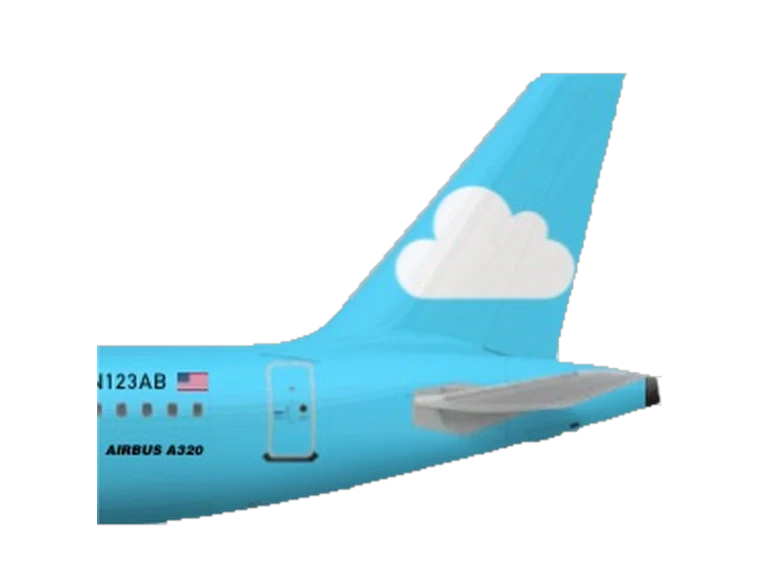
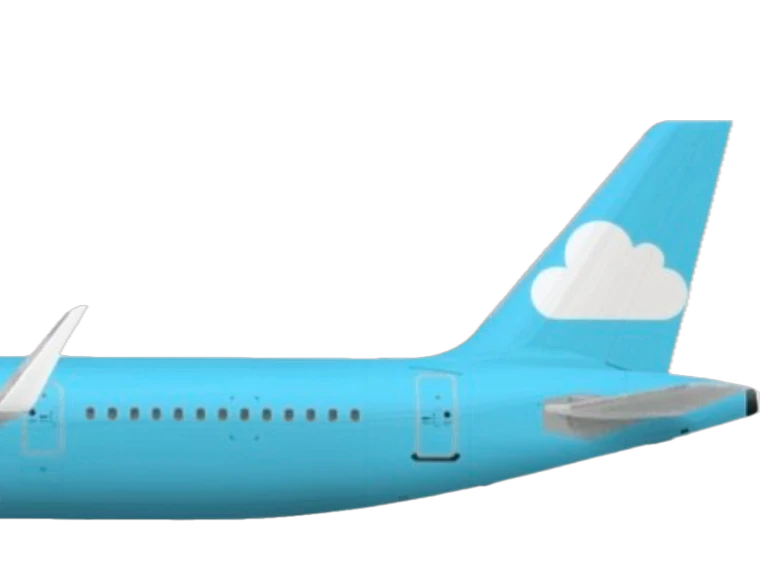
Sharper livery and more detail for two US members
The thirtieth member sent a larger livery, already a transparent
cutout, which replaces the small upscaled one; it is trimmed just before
the winglet like the other full-length renders. New York JFK becomes its
primary hub, its blurb and profile say so, the network paragraph notes
regional flying alongside international routes, and the A320, A340,
A350, 737 and 787 join its fleet (no variants or counts were given).

The Connect member gains five key routes across its four hubs and
twenty-five 787-9s to its fleet (now 133 aircraft per its submission),
and its network paragraph describes where each route goes. Its livery
is still the stand-in.

Changed region(s): [[0.0, 0.1193, 1.0, 0.9246]]

diff --git a/airline-clear-sky.html b/airline-clear-sky.html
@@ -5,10 +5,10 @@
 <meta charset="utf-8">
 <meta name="viewport" content="width=device-width, initial-scale=1, viewport-fit=cover">
 <title>Clear Sky · Mollweide Alliance</title>
-<meta name="description" content="A premium-first US carrier with major hubs at Seattle, Miami, New York JFK and Los Angeles.">
+<meta name="description" content="A premium-first US carrier based at New York JFK, with further major hubs at Seattle, Miami and Los Angeles.">
 <meta name="theme-color" content="#13398C">
 <meta property="og:title" content="Clear Sky · Mollweide Alliance">
-<meta property="og:description" content="A premium-first US carrier with major hubs at Seattle, Miami, New York JFK and Los Angeles.">
+<meta property="og:description" content="A premium-first US carrier based at New York JFK, with further major hubs at Seattle, Miami and Los Angeles.">
 <meta property="og:image" content="assets/img/members/clear-sky.webp">
 <link rel="icon" href="assets/img/mark-blue.png">
 <link rel="apple-touch-icon" href="assets/img/mark-blue.png">
@@ -54,7 +54,7 @@
     <h1 class="display"><b>Clear Sky</b></h1>
     <p class="al-reg">Clear Sky Airlines</p>
     <div class="brandrule al-rule"></div>
-    <p class="lede mt-3">A premium-first US carrier with major hubs at Seattle, Miami, New York JFK and Los Angeles.</p>
+    <p class="lede mt-3">A premium-first US carrier based at New York JFK, with further major hubs at Seattle, Miami and Los Angeles.</p>
   </div>
 </section>
 
@@ -63,7 +63,7 @@
     <div>
       <p class="eyebrow">Profile</p>
       <h2 class="display">The airline, <b>in brief.</b></h2>
-      <p class="body-copy al-p">Clear Sky Airlines is a United States carrier built around premium service, with major hubs at Seattle, Miami, New York JFK and Los Angeles, and minor hubs at New York LaGuardia and White Plains.</p>
+      <p class="body-copy al-p">Clear Sky Airlines is a United States carrier built around premium service. Its primary hub is New York JFK, with further major hubs at Seattle, Miami and Los Angeles, and minor hubs at New York LaGuardia and White Plains.</p>
       <p class="body-copy al-p">Comfort comes first on board. The airline flies more than 100 premium aircraft on over 120 routes, from the all-premium A318 to its long-haul 747-8 and A380 flagships.</p>
     </div>
     <aside class="al-card">
@@ -71,7 +71,7 @@
       <dl class="al-facts">
         <div><dt>Airline code</dt><dd><span class="code">CS</span></dd></div>
         <div><dt>Country</dt><dd>United States</dd></div>
-        <div><dt>Primary hub</dt><dd>Seattle Seattle–Tacoma <span class="code">SEA</span></dd></div>
+        <div><dt>Primary hub</dt><dd>New York John F. Kennedy <span class="code">JFK</span></dd></div>
         <div><dt>Membership</dt><dd>Mollweide Alliance, since 2026</dd></div>
       </dl>
     </aside>
@@ -83,12 +83,12 @@
     <div class="sec-head"><div><p class="eyebrow">Network</p><h2 class="display">Where it <b>flies.</b></h2></div></div>
     <div class="al-solo">
       <div>
-        <p class="body-copy al-p">Its hubs reach every corner of the United States, from Seattle in the north-west and Los Angeles on the Pacific coast to Miami and New York in the east, connecting the country with the world.</p>
+        <p class="body-copy al-p">Its hubs reach every corner of the United States, from Seattle in the north-west and Los Angeles on the Pacific coast to Miami and New York in the east. The network combines international routes with regional flying across America.</p>
         <h3 class="al-sub">Hubs</h3>
         <ul class="al-hubs">
-          <li class="al-hub"><span class="al-hub__code code">SEA</span><span class="al-hub__city">Seattle <em>Primary</em></span><span class="al-hub__apt">Seattle–Tacoma, United States</span></li>
+          <li class="al-hub"><span class="al-hub__code code">JFK</span><span class="al-hub__city">New York <em>Primary</em></span><span class="al-hub__apt">John F. Kennedy, United States</span></li>
+          <li class="al-hub"><span class="al-hub__code code">SEA</span><span class="al-hub__city">Seattle</span><span class="al-hub__apt">Seattle–Tacoma, United States</span></li>
           <li class="al-hub"><span class="al-hub__code code">MIA</span><span class="al-hub__city">Miami</span><span class="al-hub__apt">Miami Intl, United States</span></li>
-          <li class="al-hub"><span class="al-hub__code code">JFK</span><span class="al-hub__city">New York</span><span class="al-hub__apt">John F. Kennedy, United States</span></li>
           <li class="al-hub"><span class="al-hub__code code">LAX</span><span class="al-hub__city">Los Angeles</span><span class="al-hub__apt">Los Angeles Intl, United States</span></li>
         </ul>
         <h3 class="al-sub">Focus cities</h3>
@@ -111,14 +111,19 @@
         <ul class="al-fleet__list">
           <li><span class="al-fleet__t">A220</span></li>
           <li><span class="al-fleet__t">A318</span><span class="al-fleet__n">LUX configuration, the most premium experience on board</span></li>
+          <li><span class="al-fleet__t">A320</span></li>
+          <li><span class="al-fleet__t">A340</span></li>
+          <li><span class="al-fleet__t">A350</span></li>
           <li><span class="al-fleet__t">A380-800</span><span class="al-fleet__n">Long-haul flagship</span></li>
         </ul>
       </div>
       <div class="al-fleet__grp">
         <p class="al-fleet__mk">Boeing</p>
         <ul class="al-fleet__list">
+          <li><span class="al-fleet__t">737</span></li>
           <li><span class="al-fleet__t">747-8</span><span class="al-fleet__n">Long-haul flagship</span></li>
           <li><span class="al-fleet__t">757</span><span class="al-fleet__n">ECO configuration, designed for savings on every trip</span></li>
+          <li><span class="al-fleet__t">787</span></li>
         </ul>
       </div>
     </div>
@@ -184,7 +189,7 @@
     </div>
   </div>
 </footer>
-<script src="assets/js/data.js?v=27c7a4d9"></script>
+<script src="assets/js/data.js?v=eb2d39ec"></script>
 <script src="assets/js/site.js?v=756ac757"></script>
 <script>
   document.getElementById('ftMembers').innerHTML =

diff --git a/airline-quintair.html b/airline-quintair.html
@@ -81,9 +81,9 @@
 <section class="section on-wash">
   <div class="wrap">
     <div class="sec-head"><div><p class="eyebrow">Network</p><h2 class="display">Where it <b>flies.</b></h2></div></div>
-    <div class="al-solo">
+    <div class="two-col">
       <div>
-        <p class="body-copy al-p">QuintAir flies global routes from its four hubs, with a long-haul fleet led by the Airbus A350-1000, A380-800 and Boeing 777-300ER.</p>
+        <p class="body-copy al-p">QuintAir flies long-haul from all four hubs: across the Pacific to Tokyo, Seoul and Sydney, across the Atlantic to London, and south to São Paulo. Its fleet is led by the Boeing 777-300ER, 787-9 and Airbus A350-1000.</p>
         <h3 class="al-sub">Hubs</h3>
         <ul class="al-hubs">
           <li class="al-hub"><span class="al-hub__code code">LAX</span><span class="al-hub__city">Los Angeles <em>Primary</em></span><span class="al-hub__apt">Los Angeles Intl, United States</span></li>
@@ -91,6 +91,34 @@
           <li class="al-hub"><span class="al-hub__code code">JFK</span><span class="al-hub__city">New York</span><span class="al-hub__apt">John F. Kennedy, United States</span></li>
           <li class="al-hub"><span class="al-hub__code code">DFW</span><span class="al-hub__city">Dallas</span><span class="al-hub__apt">Dallas/Fort Worth, United States</span></li>
         </ul>
+      </div>
+      <div>
+        <h3 class="al-sub al-sub--top">Key routes</h3>
+        <div class="al-rgrp">
+          <p class="al-rgrp__from">From Los Angeles <span class="code">LAX</span></p>
+          <ul class="al-routes">
+            <li><span class="code">NRT</span><span class="al-routes__city">Tokyo</span><span class="al-routes__ctry">Japan</span></li>
+            <li><span class="code">SYD</span><span class="al-routes__city">Sydney</span><span class="al-routes__ctry">Australia</span></li>
+          </ul>
+        </div>
+        <div class="al-rgrp">
+          <p class="al-rgrp__from">From Miami <span class="code">MIA</span></p>
+          <ul class="al-routes">
+            <li><span class="code">GRU</span><span class="al-routes__city">São Paulo</span><span class="al-routes__ctry">Brazil</span></li>
+          </ul>
+        </div>
+        <div class="al-rgrp">
+          <p class="al-rgrp__from">From New York <span class="code">JFK</span></p>
+          <ul class="al-routes">
+            <li><span class="code">LHR</span><span class="al-routes__city">London</span><span class="al-routes__ctry">United Kingdom</span></li>
+          </ul>
+        </div>
+        <div class="al-rgrp">
+          <p class="al-rgrp__from">From Dallas <span class="code">DFW</span></p>
+          <ul class="al-routes">
+            <li><span class="code">ICN</span><span class="al-routes__city">Seoul</span><span class="al-routes__ctry">South Korea</span></li>
+          </ul>
+        </div>
       </div>
     </div>
   </div>
@@ -113,7 +141,8 @@
         <p class="al-fleet__mk">Boeing</p>
         <ul class="al-fleet__list">
           <li><span class="al-fleet__t">777-300</span><span class="al-fleet__n">4 aircraft</span></li>
-          <li><span class="al-fleet__t">777-300ER</span><span class="al-fleet__n">24 aircraft</span></li>
+          <li><span class="al-fleet__t">777-300ER</span><span class="al-fleet__n">39 aircraft</span></li>
+          <li><span class="al-fleet__t">787-9 Dreamliner</span><span class="al-fleet__n">35 aircraft</span></li>
         </ul>
       </div>
     </div>
@@ -179,7 +208,7 @@
     </div>
   </div>
 </footer>
-<script src="assets/js/data.js?v=27c7a4d9"></script>
+<script src="assets/js/data.js?v=eb2d39ec"></script>
 <script src="assets/js/site.js?v=756ac757"></script>
 <script>
   document.getElementById('ftMembers').innerHTML =

diff --git a/assets/js/data.js b/assets/js/data.js
@@ -501,14 +501,20 @@ const MEMBERS = [
         'A dedicated domestic fleet is planned, to expand its regional flying.'
       ],
       network:[
-        'QuintAir flies global routes from its four hubs, with a long-haul ' +
-        'fleet led by the Airbus A350-1000, A380-800 and Boeing 777-300ER.'
+        'QuintAir flies long-haul from all four hubs: across the Pacific to ' +
+        'Tokyo, Seoul and Sydney, across the Atlantic to London, and south to ' +
+        'São Paulo. Its fleet is led by the Boeing 777-300ER, 787-9 and Airbus ' +
+        'A350-1000.'
+      ],
+      routes:[
+        ['LAX','NRT'],['LAX','SYD'],['MIA','GRU'],['JFK','LHR'],['DFW','ICN']
       ],
       fleet:{
         current:[
           ['Airbus','A321neo','15 aircraft'],['Airbus','A350-1000','31 aircraft'],
           ['Airbus','A380-800','9 aircraft'],
-          ['Boeing','777-300','4 aircraft'],['Boeing','777-300ER','24 aircraft']
+          ['Boeing','777-300','4 aircraft'],['Boeing','777-300ER','39 aircraft'],
+          ['Boeing','787-9 Dreamliner','35 aircraft']
         ],
         incoming:[]
       }
@@ -517,14 +523,15 @@ const MEMBERS = [
   {
     name:'Clear Sky Airlines', short:'Clear Sky', code:'CS', country:'United States',
     color:'#52D6FC', tail:'assets/img/members/clear-sky.webp',
-    hubs:['SEA','MIA','JFK','LAX'], focus:['LGA','HPN'], joined:2026,
-    blurb:'A premium-first US carrier with major hubs at Seattle, Miami, New ' +
-          'York JFK and Los Angeles.',
+    hubs:['JFK','SEA','MIA','LAX'], focus:['LGA','HPN'], joined:2026,
+    blurb:'A premium-first US carrier based at New York JFK, with further ' +
+          'major hubs at Seattle, Miami and Los Angeles.',
     profile:{
       about:[
         'Clear Sky Airlines is a United States carrier built around premium ' +
-        'service, with major hubs at Seattle, Miami, New York JFK and Los ' +
-        'Angeles, and minor hubs at New York LaGuardia and White Plains.',
+        'service. Its primary hub is New York JFK, with further major hubs at ' +
+        'Seattle, Miami and Los Angeles, and minor hubs at New York LaGuardia ' +
+        'and White Plains.',
         'Comfort comes first on board. The airline flies more than 100 premium ' +
         'aircraft on over 120 routes, from the all-premium A318 to its ' +
         'long-haul 747-8 and A380 flagships.'
@@ -532,15 +539,19 @@ const MEMBERS = [
       network:[
         'Its hubs reach every corner of the United States, from Seattle in the ' +
         'north-west and Los Angeles on the Pacific coast to Miami and New York ' +
-        'in the east, connecting the country with the world.'
+        'in the east. The network combines international routes with regional ' +
+        'flying across America.'
       ],
       fleet:{
         current:[
           ['Airbus','A220'],
           ['Airbus','A318','LUX configuration, the most premium experience on board'],
+          ['Airbus','A320'],['Airbus','A340'],['Airbus','A350'],
           ['Airbus','A380-800','Long-haul flagship'],
+          ['Boeing','737'],
           ['Boeing','747-8','Long-haul flagship'],
-          ['Boeing','757','ECO configuration, designed for savings on every trip']
+          ['Boeing','757','ECO configuration, designed for savings on every trip'],
+          ['Boeing','787']
         ],
         incoming:[]
       }

diff --git a/index.html b/index.html
@@ -163,7 +163,7 @@
     </div>
   </div>
 </footer>
-<script src="assets/js/data.js?v=27c7a4d9"></script>
+<script src="assets/js/data.js?v=eb2d39ec"></script>
 <script src="assets/js/site.js?v=756ac757"></script>
 <script>
   renderMembers(document.getElementById('membersHome'));

diff --git a/book.html b/book.html
@@ -220,7 +220,7 @@
     </div>
   </div>
 </footer>
-<script src="assets/js/data.js?v=27c7a4d9"></script>
+<script src="assets/js/data.js?v=eb2d39ec"></script>
 <script src="assets/js/site.js?v=756ac757"></script>
 <script src="assets/js/booking.js?v=3150a536"></script>
 <script>

diff --git a/bookings.html b/bookings.html
@@ -122,7 +122,7 @@
     </div>
   </div>
 </footer>
-<script src="assets/js/data.js?v=27c7a4d9"></script>
+<script src="assets/js/data.js?v=eb2d39ec"></script>
 <script src="assets/js/site.js?v=756ac757"></script>
 <script src="assets/js/booking.js?v=3150a536"></script>
 <script>

diff --git a/members.html b/members.html
@@ -121,7 +121,7 @@
     </div>
   </div>
 </footer>
-<script src="assets/js/data.js?v=27c7a4d9"></script>
+<script src="assets/js/data.js?v=eb2d39ec"></script>
 <script src="assets/js/site.js?v=756ac757"></script>
 <script>
   renderMembers(document.getElementById('membersAll'));

diff --git a/join.html b/join.html
@@ -171,7 +171,7 @@
     </div>
   </div>
 </footer>
-<script src="assets/js/data.js?v=27c7a4d9"></script>
+<script src="assets/js/data.js?v=eb2d39ec"></script>
 <script src="assets/js/site.js?v=756ac757"></script>
 <script>
   renderJoin(document.getElementById('joinGroups'));

diff --git a/news.html b/news.html
@@ -117,7 +117,7 @@
     </div>
   </div>
 </footer>
-<script src="assets/js/data.js?v=27c7a4d9"></script>
+<script src="assets/js/data.js?v=eb2d39ec"></script>
 <script src="assets/js/site.js?v=756ac757"></script>
 <script>
   renderPress(document.getElementById('releases'));

diff --git a/airline-air-siam.html b/airline-air-siam.html
@@ -188,7 +188,7 @@
     </div>
   </div>
 </footer>
-<script src="assets/js/data.js?v=27c7a4d9"></script>
+<script src="assets/js/data.js?v=eb2d39ec"></script>
 <script src="assets/js/site.js?v=756ac757"></script>
 <script>
   document.getElementById('ftMembers').innerHTML =

diff --git a/airline-akerair.html b/airline-akerair.html
@@ -225,7 +225,7 @@
     </div>
   </div>
 </footer>
-<script src="assets/js/data.js?v=27c7a4d9"></script>
+<script src="assets/js/data.js?v=eb2d39ec"></script>
 <script src="assets/js/site.js?v=756ac757"></script>
 <script>
   document.getElementById('ftMembers').innerHTML =

diff --git a/airline-altasib.html b/airline-altasib.html
@@ -204,7 +204,7 @@
     </div>
   </div>
 </footer>
-<script src="assets/js/data.js?v=27c7a4d9"></script>
+<script src="assets/js/data.js?v=eb2d39ec"></script>
 <script src="assets/js/site.js?v=756ac757"></script>
 <script>
   document.getElementById('ftMembers').innerHTML =
